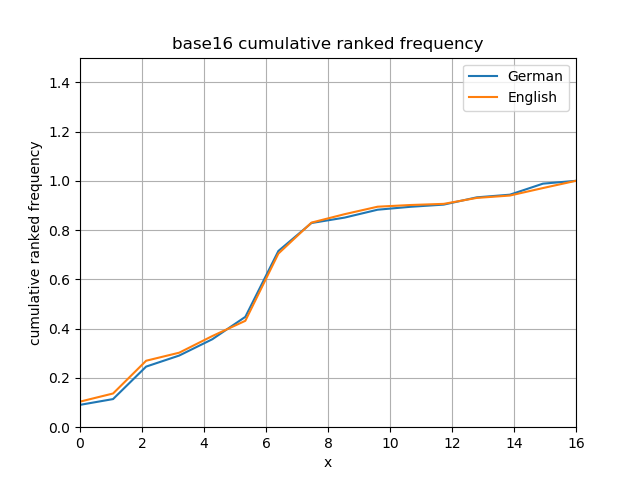
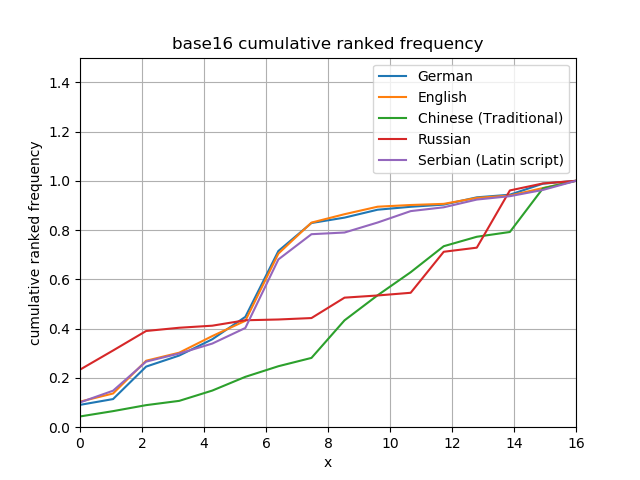
more charts

diff --git a/scripts/compare_histograms.py b/scripts/compare_histograms.py
@@ -9,6 +9,9 @@ from matplotlib.colors import LinearSegmentedColormap
 LANGUAGES = {
     'en': 'English',
     'de': 'German',
+    'zh': 'Chinese (Traditional)',
+    'sh': 'Serbian (Latin script)',
+    'ru': 'Russian'
 }
 
 
@@ -37,45 +40,53 @@ def plot_heatmap(df, key, value, filename):
     return series
 
 
-def plot_group(g, key1, key2):
+def plot_group(g, keys, suffix):
     meta = g['classification']
     filename = '_'.join(meta)
     if meta[0] != 'pairs':
         title = f'{meta[0]} histogram'
-        series1 = g[key1]
-        series2 = g[key2]
-        summary = series1.join(series2.set_index('symbol'), on='symbol', how='inner')
-        summary['difference'] = summary[f'count_{key1}'] - summary[f'count_{key2}']
-        summary['exists'] = summary[f'count_{key1}'] + summary[f'count_{key2}']
-        ax = summary[summary['exists'] > 0].plot.bar(title=title,
-                                                     rot=0,
-                                                     x='symbol',
-                                                     y=[f'count_{key1}', f'count_{key2}', 'difference'])
-        ax.legend([LANGUAGES[key1], LANGUAGES[key2], 'Difference'])
+        summary = None
+        counts = []
+        legend = []
+        for k in keys:
+            series = g[k]
+            if summary is None:
+                summary = series
+            else:
+                summary = summary.join(series.set_index('symbol'), on='symbol', how='inner')
+            counts.append(f'count_{k}')
+            legend.append(LANGUAGES[k])
+        ax = summary.plot.bar(title=title,
+                              rot=0,
+                              x='symbol',
+                              y=counts)
+        ax.legend(legend)
         if meta[0] == 'base256':
             for n, label in enumerate(ax.xaxis.get_ticklabels()):
                 label.set_visible(False)
         fig = ax.get_figure()
-        fig.savefig(f'{filename}_histogram.png')
+        fig.savefig(f'{filename}_histogram_{suffix}.png')
     else:
-        plot_heatmap(g[key1], key1, f'count_{key1}', filename)
-        plot_heatmap(g[key2], key2, f'count_{key2}', filename)
+        for k in keys:
+            plot_heatmap(g[k], k, f'count_{k}', filename)
 
 
-def plot_cdfs(g, key1, key2):
+def plot_cdfs(g, keys):
     meta = g['classification']
     if meta[0] != 'pairs':
         title = f'{meta[0]} cumulative ranked frequency'
-        series1 = g[key1][f'count_{key1}'].to_numpy()
-        series2 = g[key2][f'count_{key2}'].to_numpy()
-        cdf1 = np.divide(series1, series1.sum())
-        cdf1 = cdf1.cumsum()
-        cdf2 = np.divide(series2, series2.sum())
-        cdf2 = cdf2.cumsum()
+        cdfs = {}
+        widest = -1
+        for key in keys:
+            series = g[key][f'count_{key}'].to_numpy()
+            cdf = np.divide(series, series.sum())
+            cdf = cdf.cumsum()
+            cdfs[key] = cdf
+            widest = max(widest, series.size)
         fig, ax = plt.subplots()
-        x = np.linspace(0, series1.size, series1.size)
-        ax.plot(x, cdf1, label=LANGUAGES[key1])
-        ax.plot(x, cdf2, label=LANGUAGES[key2])
+        x = np.linspace(0, widest, widest)
+        for key in cdfs.keys():
+            ax.plot(x, cdfs[key], label=LANGUAGES[key])
         ax.set(xlabel='x', ylabel='cumulative ranked frequency', title=title)
         ax.set_ylim([0, 1.5])
         ax.set_xlim([x.min(), x.max()])
@@ -99,7 +110,6 @@ def plot_language(group, key):
             else:
                 return input
 
-        print(series)
         series['character'] = series['symbol'].apply(to_char)
         ax = series[series[f'count_{key}'] > 0].plot.bar(title=title, rot=0, x='character', y='pct')
         ax.legend(['Frequency'])
@@ -133,7 +143,11 @@ for root, subdirs, files in os.walk(results_dir):
             group[comparison] = pd.read_csv(f'{root}{os.sep}{file}', header=None,
                                             names=['symbol1', 'symbol2', f'count_{comparison}'])
 for key in groups.keys():
-    plot_group(groups[key], 'de', 'en')
-    plot_cdfs(groups[key], 'de', 'en')
+    plot_group(groups[key], ['de', 'en'], 'germanic')
+    plot_group(groups[key], ['zh', 'ru', 'sh'], 'others')
+    plot_cdfs(groups[key], ['de', 'en', 'zh', 'ru', 'sh'])
     plot_language(groups[key], 'de')
     plot_language(groups[key], 'en')
+    plot_language(groups[key], 'zh')
+    plot_language(groups[key], 'ru')
+    plot_language(groups[key], 'sh')
